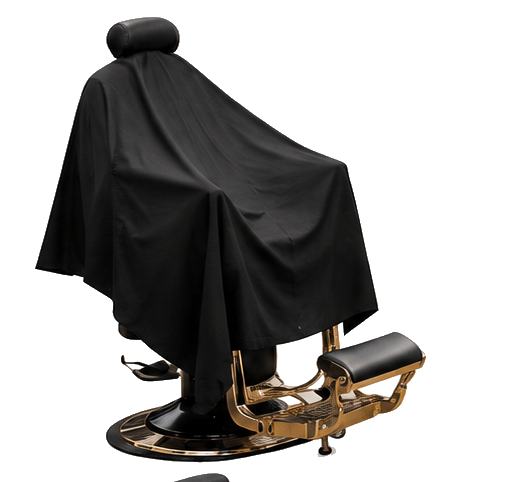
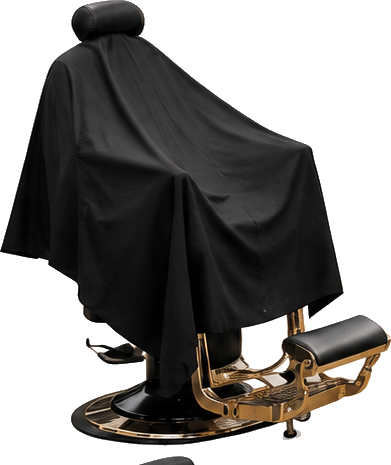
Overlay cutout buttons exactly on their photo objects; add ?intro replay
The three cutout buttons now overlap their original objects in the photo
at matched size and position (template-matched for the barber chair,
landmark-aligned for the frame-clipped desk and waiting chairs; cutouts
trimmed to exact alpha bounds so the geometry is config-friendly). The
viewport switches from overflow hidden to clip so focusing the desk
button, which legitimately overhangs the photo edge, can never
force-scroll the scene. Adds a ?intro URL switch that forces the full
satellite drop past the returning-visitor auto-skip and reduced-motion
bypass, documented in the README for testing.

Claude-Session: https://claude.ai/code/session_01DevHaehwfvbeF3KzYPjbyk

diff --git a/src/config/site.js b/src/config/site.js
@@ -50,10 +50,13 @@ const site = {
   // as % of image width. Aimed at the real photo's layout: reception desk
   // bottom-right, front-right barber chair centre, waiting chairs bottom-left.
   // FINE-TUNE once the photo file is dropped in.
+  // Aligned so each cutout overlaps its original object in the photo at the
+  // same size (template-matched + landmark-tuned). If the photo or cutouts
+  // are ever re-shot, re-tune these here.
   hotspots: [
-    { id: 'book',    label: 'Book an Appointment', x: 85, y: 72, w: 16, img: '/assets/buttons/book.png' },    // reception desk, bottom right
-    { id: 'barbers', label: 'Meet the Barbers',    x: 58, y: 57, w: 13, img: '/assets/buttons/barbers.png' }, // front-right barber chair
-    { id: 'gallery', label: 'The Gallery',         x: 13, y: 77, w: 18, img: '/assets/buttons/gallery.png' }, // waiting chairs, bottom left
+    { id: 'book',    label: 'Book an Appointment', x: 85.3, y: 85,   w: 27, img: '/assets/buttons/book.png' },    // reception desk, bottom right
+    { id: 'barbers', label: 'Meet the Barbers',    x: 39.3, y: 62.9, w: 16, img: '/assets/buttons/barbers.png' }, // front-left barber chair
+    { id: 'gallery', label: 'The Gallery',         x: 13.9, y: 76.7, w: 28, img: '/assets/buttons/gallery.png' }, // waiting chairs, bottom left
   ],
 
   // --- Barbers -----------------------------------------------------------------

diff --git a/src/App.jsx b/src/App.jsx
@@ -38,16 +38,23 @@ function markIntroSeen() {
 }
 
 export default function App() {
+  // ?intro (or #intro) forces the full satellite drop to replay — overrides
+  // the returning-visitor auto-skip AND the reduced-motion bypass so the
+  // owner can always preview the movie on demand.
+  const [forceIntro] = useState(() =>
+    /[?&#]intro/.test(window.location.search + window.location.hash),
+  )
   // Returning visitors on phones skip the movie entirely — they're here to
   // book. Frozen at first render: recomputing per render could flip true
   // mid-intro (e.g. desktop window resized under 820px with the seen-flag
   // set) and kill the running choreography.
   const [autoSkip] = useState(
-    () => site.autoSkipIntroOnReturn && isPhone() && introSeen(),
+    () =>
+      !forceIntro && site.autoSkipIntroOnReturn && isPhone() && introSeen(),
   )
   // Also frozen: a live matchMedia read used as an effect dep would re-run
   // the whole choreography if the OS motion setting flips mid-session.
-  const [reduced] = useState(() => prefersReduced())
+  const [reduced] = useState(() => !forceIntro && prefersReduced())
 
   // intro | interior — plus fine-grained flags for the choreography
   const [phase, setPhase] = useState(autoSkip ? 'interior' : 'intro')

diff --git a/src/styles/app.css b/src/styles/app.css
@@ -6,7 +6,8 @@
 .app {
   position: fixed;
   inset: 0;
-  overflow: hidden;
+  /* clip (not hidden): forbids even programmatic/focus scrolling */
+  overflow: clip;
   background: var(--bg);
 }
 
@@ -223,7 +224,9 @@
   position: fixed;
   inset: 0;
   z-index: 1;
-  overflow: hidden;
+  /* clip so focusing a hotspot that overhangs the stage edge (the desk
+     cutout is clipped by the photo frame) can never force-scroll the scene */
+  overflow: clip;
   display: flex;
   align-items: center;
   justify-content: center;
@@ -252,7 +255,7 @@
   .stage-viewport {
     justify-content: flex-start;
     overflow-x: auto;
-    overflow-y: hidden;
+    overflow-y: clip;
     touch-action: pan-x pinch-zoom; /* buttery swipe without hijacking pinch */
     -webkit-overflow-scrolling: touch;
     scrollbar-width: none;

diff --git a/README.md b/README.md
@@ -152,6 +152,21 @@ needed.
   booking.
 - `ghostLogoDuringBlackout` — logo at 15% opacity during the black hold.
 
+## Replaying the intro
+
+The satellite drop only plays in full on a **fresh visit**. Two things skip
+it by design, which can make it look "missing" when testing:
+
+1. **Returning phone visitors** — after one completed or skipped intro, a
+   localStorage flag sends phones straight to the interior (a repeat
+   customer should land one tap from booking). Clear site data to reset it.
+2. **Reduce Motion** — if the device has reduced motion enabled
+   (iPhone: Settings → Accessibility → Motion), the flight is skipped for
+   accessibility.
+
+To force the full movie any time, open the site with **`?intro`** on the
+URL (e.g. `http://localhost:5173/?intro`) — it overrides both.
+
 ## Escape hatches
 
 - **SKIP INTRO** (bottom-right, from the very first frame) kills all
